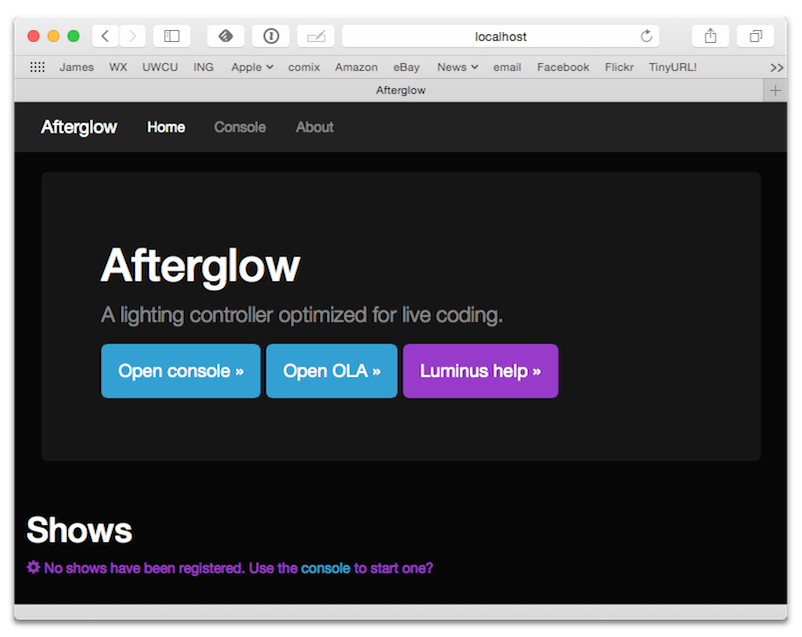
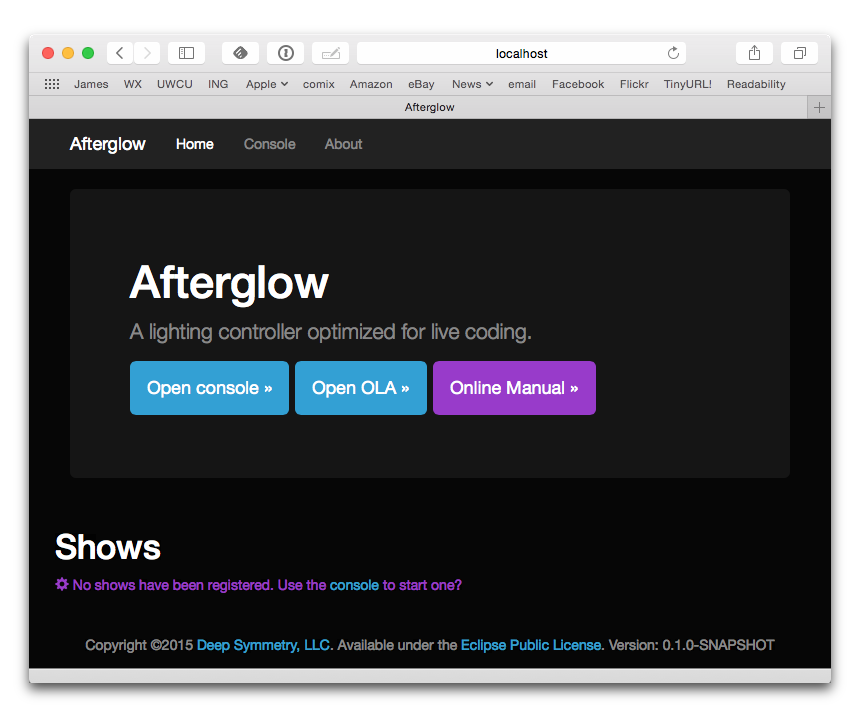
Add version number and copyright to home page.

Changed region(s): [[0.0, 0.0298, 0.9975, 0.9843], [0.1247, 0.3579, 0.717, 0.6264], [0.0623, 0.7457, 0.187, 0.7755]]

diff --git a/resources/templates/home.html b/resources/templates/home.html
@@ -6,7 +6,7 @@
     <p>
       <a class="btn btn-primary btn-lg" href="{{servlet-context}}/console">Open console &raquo;</a>
       <a class="btn btn-primary btn-lg" href="http://localhost:9090/new/" target="_blank">Open OLA &raquo;</a>
-      <a class="btn btn-info btn-lg" href="http://luminusweb.net">Luminus help &raquo;</a>
+      <a class="btn btn-info btn-lg" href="https://github.com/brunchboy/afterglow/tree/master/doc#afterglow-documentation">Online Manual &raquo;</a>
     </p>
   </div>
 
@@ -26,6 +26,16 @@
           </p>
           {% endfor %}
         </ul>
+    </div>
+  </div>
+  <div class="row">
+    <div class="span12">
+      <br/>
+      <p class="text-center">Copyright
+      &copy;2015 <a href="http://deepsymmetry.org">Deep Symmetry, LLC</a>.
+      Available under the
+        <a href="https://raw.githubusercontent.com/brunchboy/afterglow/master/LICENSE">Eclipse
+          Public License</a>. Version: {{version}}</p>
     </div>
   </div>
 {% comment %}
